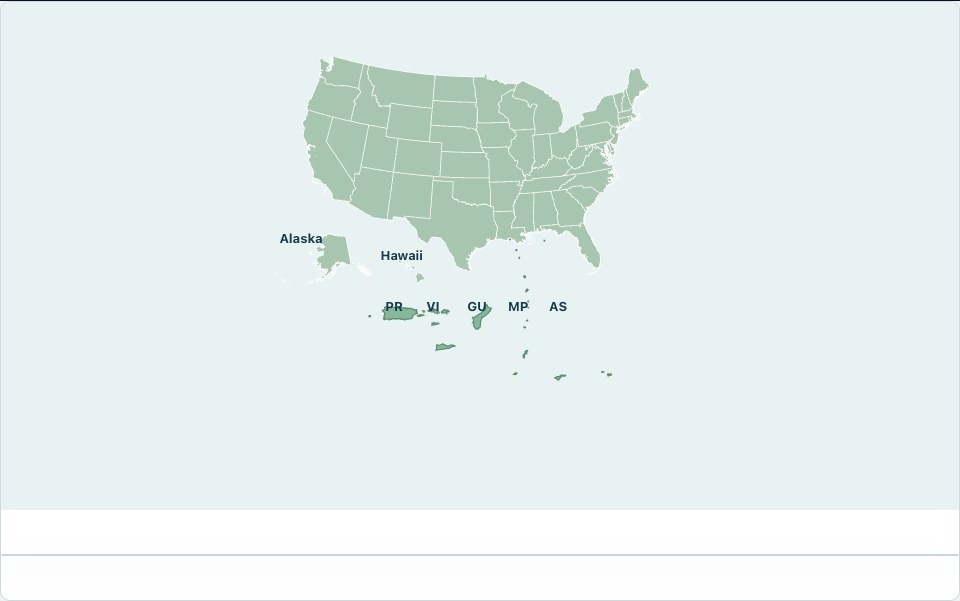
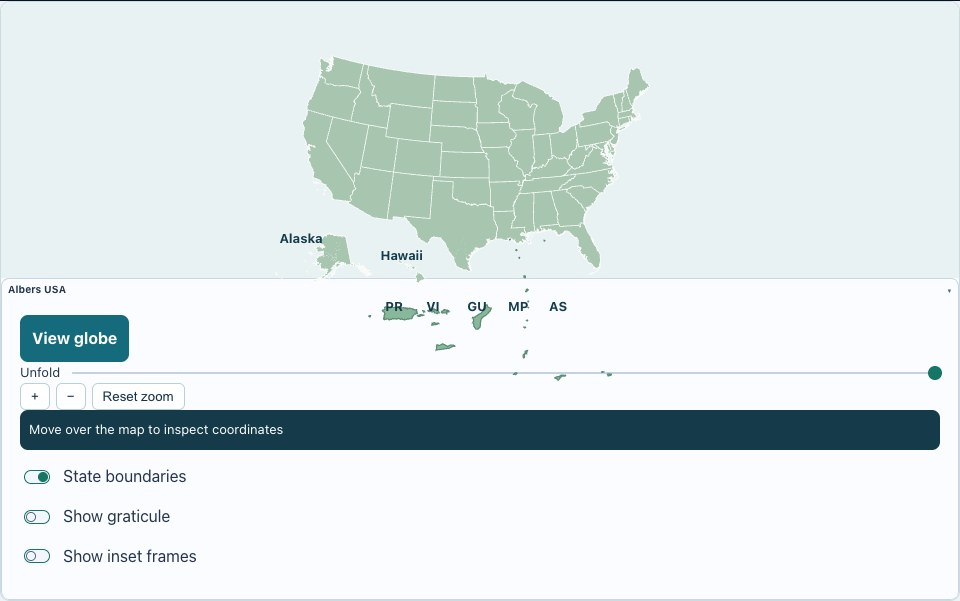
Keep inline example panels visible during responsive layout

diff --git a/examples/common/example-panel.css b/examples/common/example-panel.css
@@ -46,3 +46,9 @@ aside.example-panel.deck-widget-container {
  * measurement back into the outer box before its content lays out. */
 .example-panel > .deck-widget-box { max-height: none !important; }
 .example-panel > .deck-widget-box > section > header { display: block !important; margin: 0 !important; border: 0; }
+
+/* Inline controls have no predetermined host height. Bound their content against
+ * the viewport instead of the empty host measured during the first mount. */
+.example-info-box > .deck-widget-box > section {
+  max-height: min(80vh, 720px) !important;
+}
